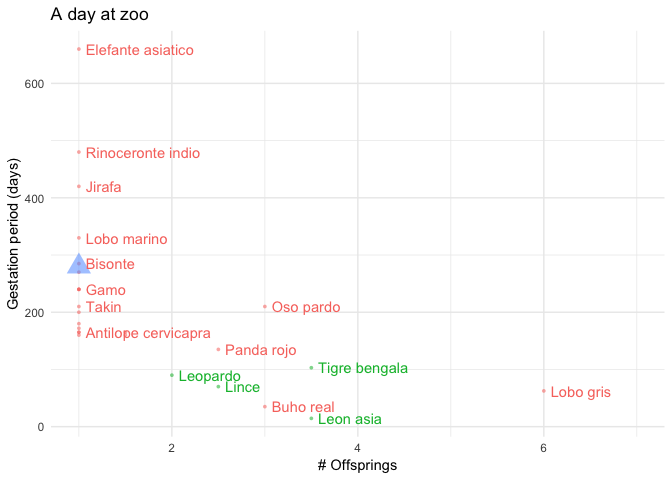
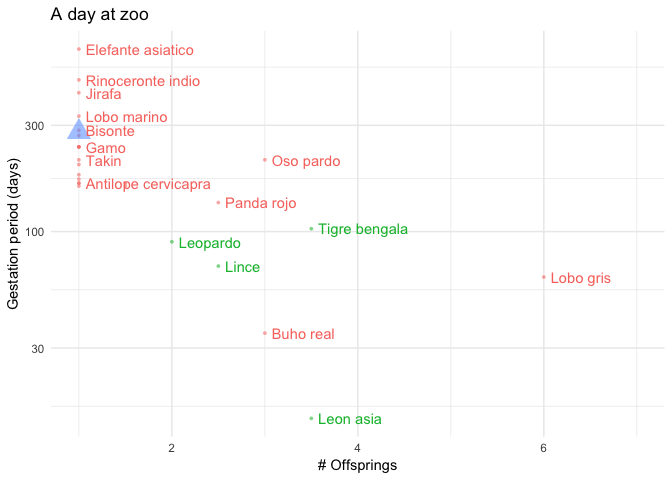
Update analisys, references, and chart

diff --git a/README.md b/README.md
@@ -6,9 +6,11 @@ Pablo Haya
 A Day At The Zoo
 ================
 
-During a splendid sunny day at the zoo, I was collecting several data facts about animals I saw during the visit. I focused on gestation periods and mean number of offsprings. My first hypothesis was that longer gestation periods lead to fewer number of offsprings, as fetus will develop futher require more space preventing that other embryos grow up.
+During a splendid sunny day at the zoo, I was collecting several data facts about animals I saw during the visit. I focused on gestation periods and mean number of offsprings. My first hypothesis was that longer gestation periods lead to fewer number of offsprings. As much time as foetus remains in the placenta, it develops futher, and require more space preventing that other embryos grow up. I performed a very straightforward [analysis using R](/scripts/analysis.R) to test this hypothesis.
 
-I performed a very straightforward [analysis using R](/scripts/analysis.R) to test this hypothesis. The results could inspire a [enquiry-based learning](https://en.wikipedia.org/wiki/Inquiry-based_learning) activity for kids that combine outdoor activity, and data analysis.
+After reading literature, I found that this inverse relationship between litter size and gestation period is commonly found in mammals. More interesting, I found that female body mass highly correlates with length of gestation period. Larger animals tend to have longer gestation periods, as they tend to produce larger offspring. In addition, this relationship varies from species to species. I am eager to test it by my own in the future.
+
+The results could inspire a [enquiry-based learning](https://en.wikipedia.org/wiki/Inquiry-based_learning) project for kids that combines outdoor activity, and data analysis.
 
 Main conclusions
 ----------------
@@ -17,14 +19,19 @@ The following chart summarizes the results after analyzing the dataset:
 
 ![](README_files/figure-markdown_github/main-chart-1.png)
 
-Animal's common name are showed in red, except felines that are highlighted in green. Human is represented by a blue triangle.
+Animal's common name are showed in red, except felines that are highlighted in green. Human is represented by a blue triangle. Gestation periods are in logarithmic scale.
 
 Several insigths can be extracted:
 
 -   Most of the displayed animals has only one offspring. There is a lot of variation (70-660 days) in the gestation period between species with only one offspring.
--   It can be observed a slighty inverse relationship between gestation period and number of offsprings that points out to the original hypothesis. Actually, a regression analysis reveals a correlation of 0.3 It was found that number of offsprings significantly predicts gestation period (β = 0.004, p&lt;.001).
+-   It can be observed a mild inverse relationship between gestation period and number of offsprings that points out to the original hypothesis. Actually, a regression analysis reveals a R-squared of 0.47. It was found that gestation period (log scale) significantly predicts number of offsprings (β = -1.0486, p&lt;.000).
 -   All displayed felines share low gestation periods, and a number of offsprings above one.
--   Elephant and hippopotamus gestation periods multiplies human gestation period by two and three respectively.
+-   Elephant and Rhinocero gestation periods multiplies human gestation period by two and three respectively. They have the longest gestation periods in land mammals (see references).
+
+Limitations to be taken into account:
+
+-   Dataset observations come from a non-random sampling. Even more, Zoo animals selection is a biased sample as well.
+-   Confound variables can be causing a spurious association between gestation periods, and a number of offsprings. Further analysis should be performed.
 
 Dataset
 -------
@@ -44,10 +51,21 @@ Dataset attributes are:
 
 Dataset is provided in the same format as it appears in zoo's datasheets. Nonetheless, a [cleaned version](/data/gestationoffsprings_clean.csv) of the data set is also available.
 
+References
+----------
+
+-   [Gestation Periods and Animal Scale](http://www.sjsu.edu/faculty/watkins/gestation.htm) SJSU
+-   [Gestation Periods](http://ib.bioninja.com.au/higher-level/topic-11-animal-physiology/114-sexual-reproduction/gestation-periods.html) BioNinja
+-   [Chapter 71 - Rhinoceros Theriogenology](https://www.sciencedirect.com/science/article/pii/B9781437719864000718)
+-   [Example of enquire-based activity](http://www.olsj.towerhamlets.sch.uk/blogs/year5/wp-content/uploads/sites/8/2017/06/Science-Homework.pdf)
+-   J Reprod Fertil. 1963 Aug;6:139-41. NATURE OF THE SYSTEMIC EFFECT OF LITTER SIZE ON GESTATION PERIOD IN MICE.MCLAREN A, MICHIE D.
+
 To Do
 -----
 
+-   Complete dataset with weights, scientific names, and classes
 -   Translate common names to english
+-   Adjust human gestation period to 266 days
 
 License
 -------
